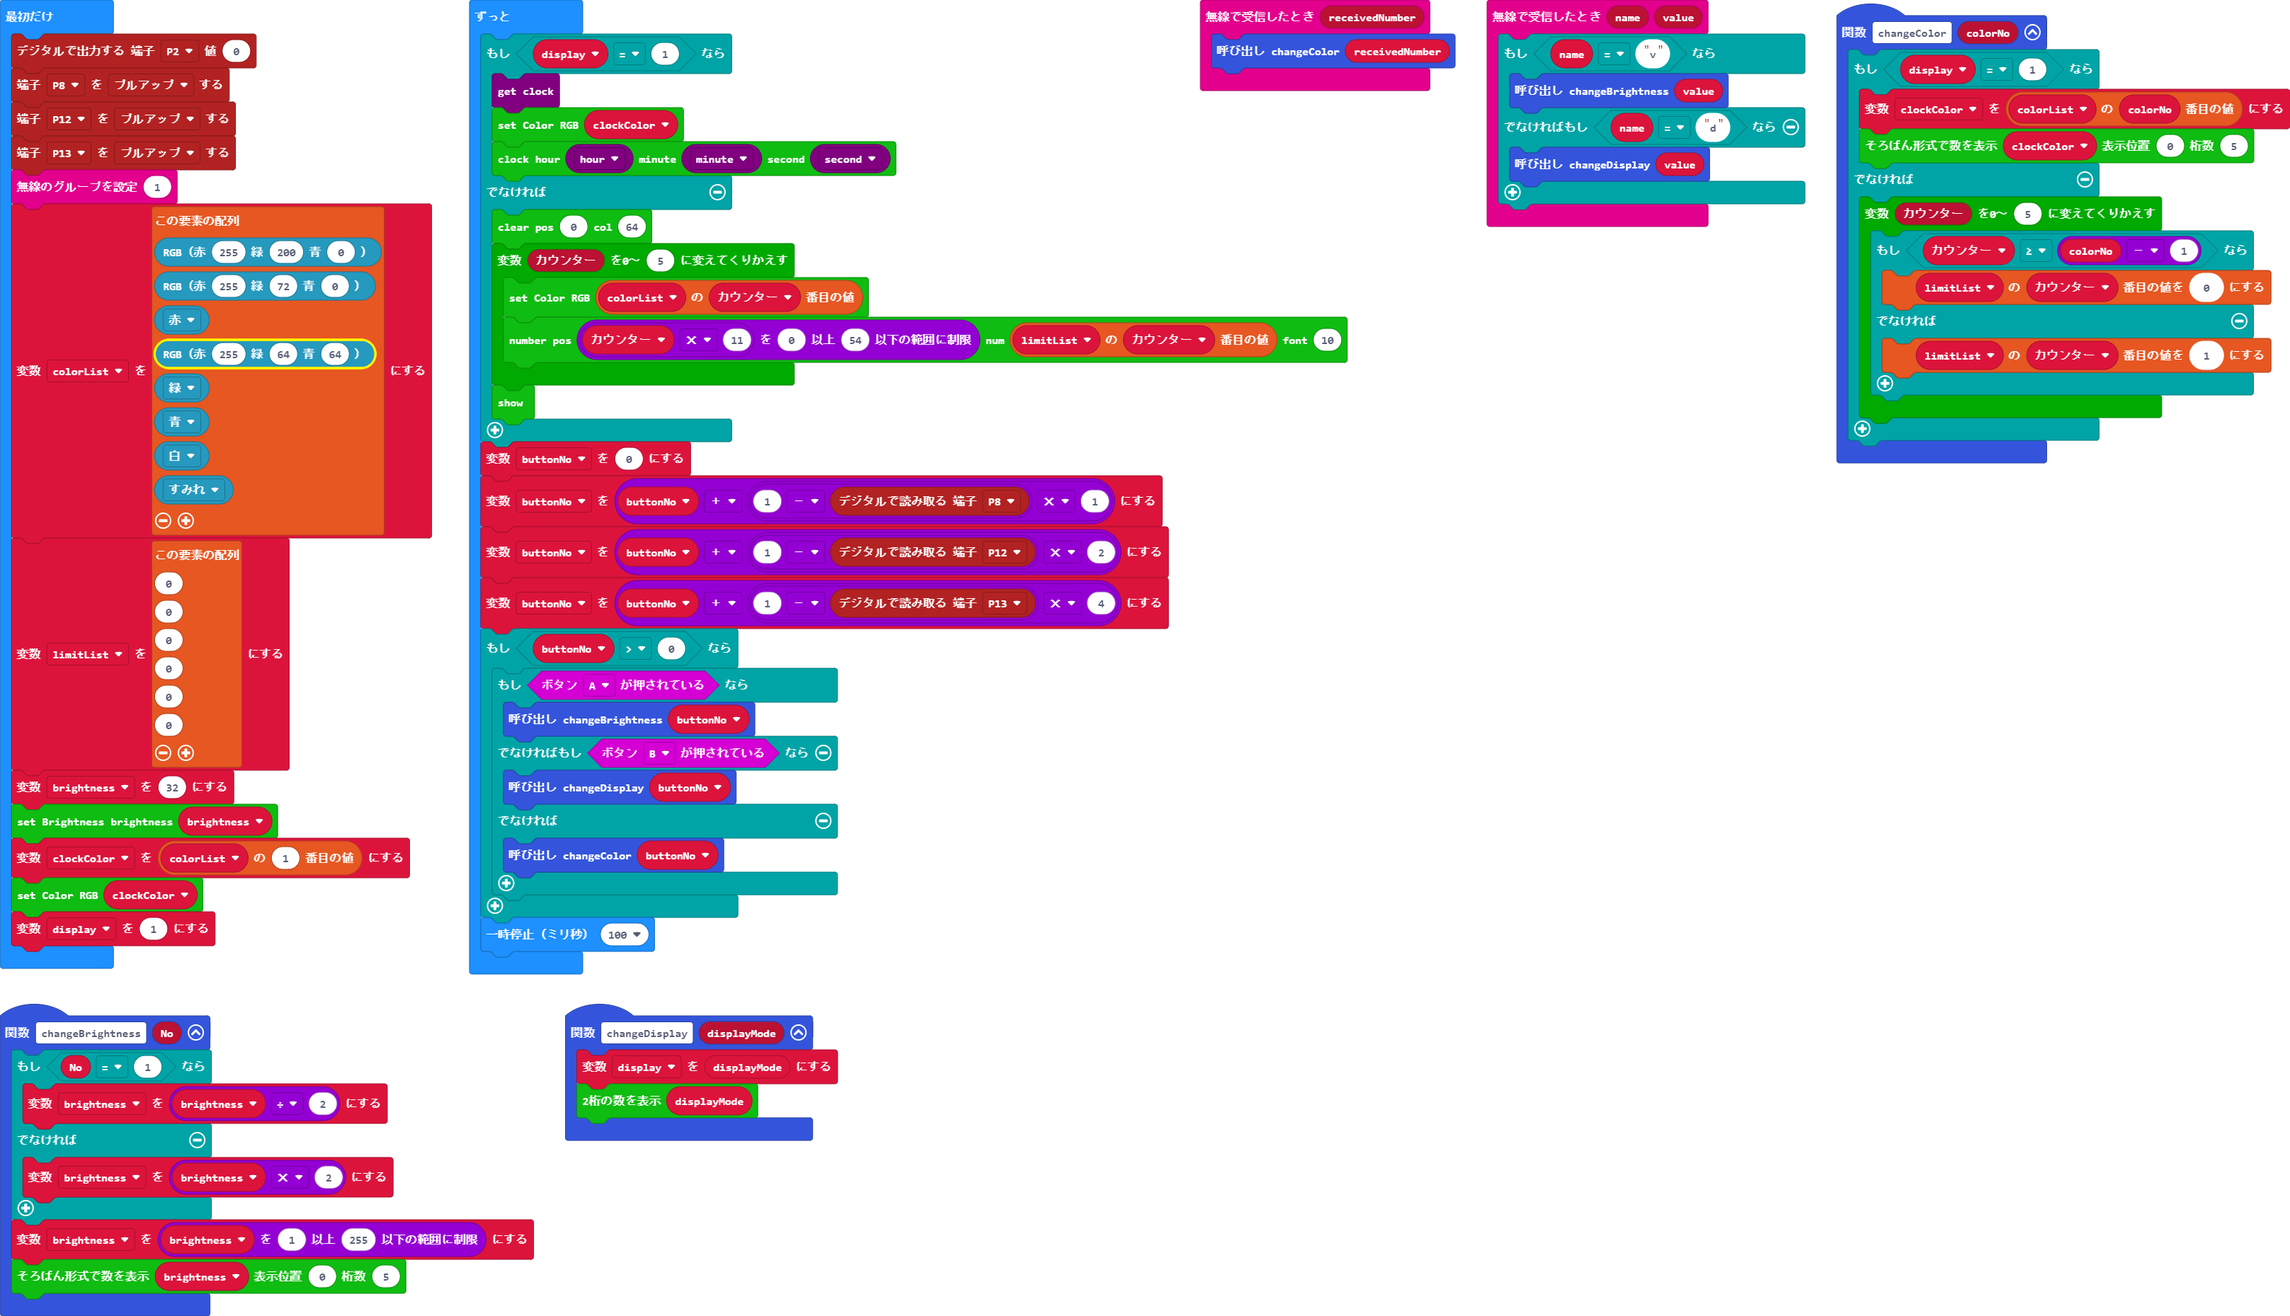
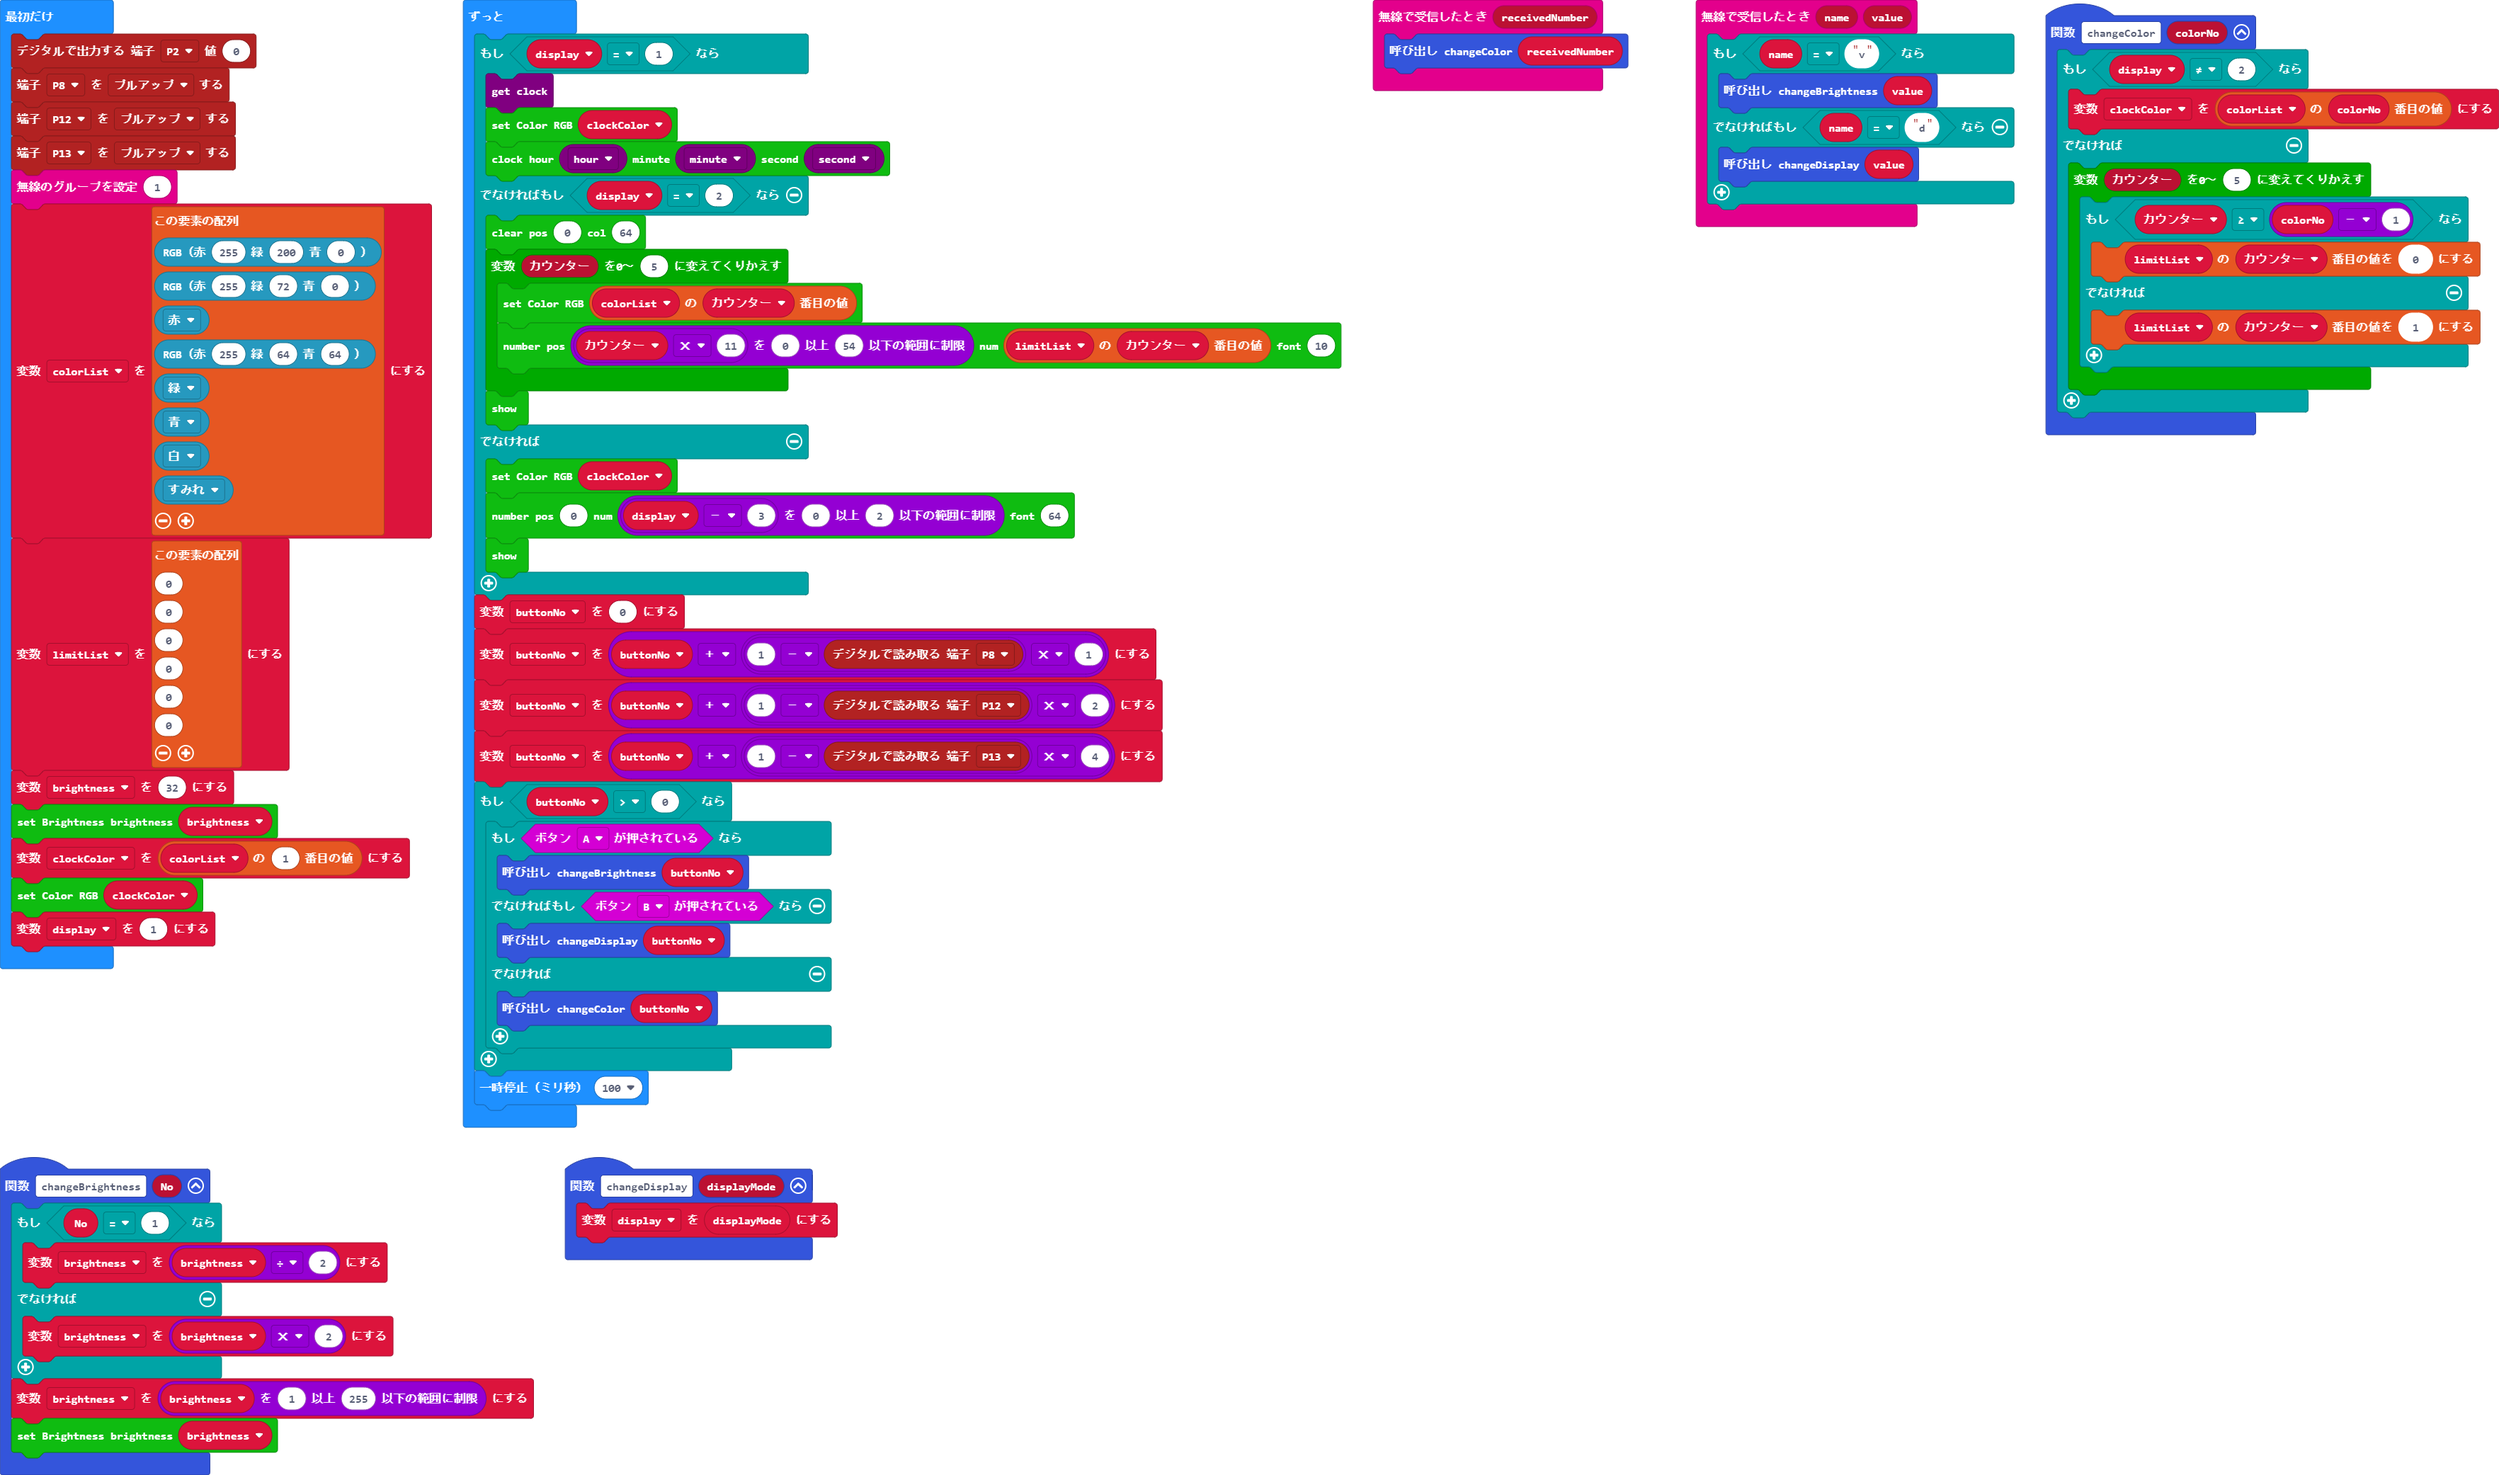
更新 pxt.json, main.blocks, main.ts

Changed region(s): [[0.0, 0.0, 0.5934, 1.0], [0.4997, 0.0, 1.0, 0.3744]]

diff --git a/main.ts b/main.ts
@@ -8,7 +8,7 @@ function changeBrightness (No: number) {
         brightness = brightness * 2
     }
     brightness = Math.constrain(brightness, 1, 255)
-    watchfont.showSorobanNumber(brightness, 0, 5)
+    clockFont.setBrightness(brightness)
 }
 radio.onReceivedValue(function (name, value) {
     if (name == "v") {
@@ -19,12 +19,10 @@ radio.onReceivedValue(function (name, value) {
 })
 function changeDisplay (displayMode: number) {
     display = displayMode
-    watchfont.showNumber2(displayMode)
 }
 function changeColor (colorNo: number) {
-    if (display == 1) {
+    if (display != 2) {
         clockColor = colorList[colorNo]
-        watchfont.showSorobanNumber(clockColor, 0, 5)
     } else {
         for (let カウンター = 0; カウンター <= 5; カウンター++) {
             if (カウンター >= colorNo - 1) {
@@ -74,12 +72,16 @@ basic.forever(function () {
         ds3231.getClock()
         clockFont.setColor(clockColor)
         clockFont.showClock(ds3231.getClockData(clockData.hour), ds3231.getClockData(clockData.minute), ds3231.getClockData(clockData.second))
-    } else {
+    } else if (display == 2) {
         clockFont.clearColumn(0, 64)
         for (let カウンター = 0; カウンター <= 5; カウンター++) {
             clockFont.setColor(colorList[カウンター])
             clockFont.displayNumber(Math.constrain(カウンター * 11, 0, 54), limitList[カウンター], 10)
         }
+        clockFont.show()
+    } else {
+        clockFont.setColor(clockColor)
+        clockFont.displayNumber(0, Math.constrain(display - 3, 0, 2), 64)
         clockFont.show()
     }
     buttonNo = 0
